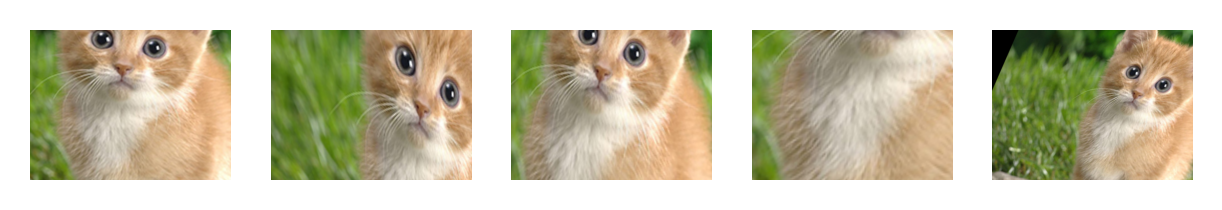
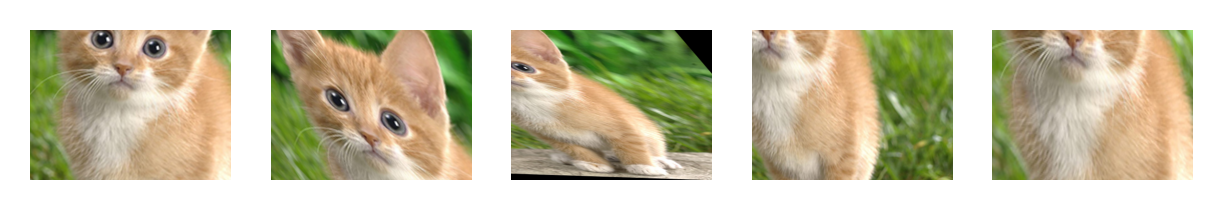
planar wip 2

diff --git a/alignment_2d.py b/alignment_2d.py
@@ -4,6 +4,8 @@ import argparse
 import matplotlib.pyplot as plt
 from skimage import io
 import pathlib
+from model import PosEncoding
+from tqdm import trange, tqdm
 
 
 def sl3_to_SL3(h):
@@ -17,15 +19,7 @@ def sl3_to_SL3(h):
     return H
 
 
-# pick random patches
-def generate_patches(image, num_patches, noise_scale, crop_scale):
-    H, W = image.shape[1:]
-    M = num_patches
-    image = image[None].expand(M, -1, -1, -1)
-
-    h = torch.randn(M, 8) * noise_scale
-    h[0] = 0.0  # identity for the first patch
-
+def gen_grid(h, H, W, crop_scale):
     mat = sl3_to_SL3(h)
 
     grid = F.affine_grid(
@@ -37,7 +31,19 @@ def generate_patches(image, num_patches, noise_scale, crop_scale):
     grid = torch.cat([grid, torch.ones(1, H, W, 1)], -1)  # [1, H, W, 3]
     grid = torch.einsum('mdt,mhwd->mhwt', mat, grid.expand(5, -1, -1, -1))
     grid = (grid / grid[..., -1:])[..., :-1]
+    return grid
 
+
+# pick random patches
+def generate_patches(image, num_patches, noise_scale, crop_scale):
+    H, W = image.shape[1:]
+    M = num_patches
+    image = image[None].expand(M, -1, -1, -1)
+
+    h = torch.randn(M, 8) * noise_scale
+    h[0] = 0.0  # identity for the first patch
+
+    grid = gen_grid(h, H, W, crop_scale)
     patches = F.grid_sample(image, grid, align_corners=False)
     return patches, h
 
@@ -75,6 +81,64 @@ def visualize_patches(image, patches, true_poses, num_patches, crop_scale, based
     plt.savefig(basedir / 'warps.png', bbox_inches='tight')
 
 
+class Model(torch.nn.Module):
+    def __init__(self, pos_enc):
+        super(Model, self).__init__()
+        self.pos_enc = pos_enc
+
+        self.features = torch.nn.Sequential(
+            torch.nn.Linear(pos_enc.encode_dim, 256),
+            torch.nn.Softplus(),
+            torch.nn.Linear(256, 256),
+            torch.nn.Softplus(),
+            torch.nn.Linear(256, 256),
+            torch.nn.Softplus(),
+            torch.nn.Linear(256, 3),
+        )
+
+    def forward(self, x, step):
+        # x: [batch_size, 2]
+        # output: color [batch_size, 3]
+        x = self.pos_enc.encode(x, step)
+        x = self.features(x)
+        x = torch.sigmoid(x)
+        return x
+
+
+def train(args, patches, true_poses):
+    # patches: (M, 3, H, W)
+    # true_poses: (M, 8)
+    poses = torch.nn.Parameter(torch.zeros(args.num_patches - 1, 8))
+    model = Model(PosEncoding(2, 8, 0, 2000))
+    H, W = patches.shape[2:]
+    M = len(patches)
+
+    opt = torch.optim.Adam(
+        [*model.parameters(), poses],
+        lr=0.001
+    )
+
+    for step in trange(5000):
+        opt.zero_grad()
+
+        poses_fixed = torch.cat([torch.zeros(1, 8), poses], 0)
+
+        grid = gen_grid(poses_fixed, H, W, args.crop_scale)  # (M, H, W, 2)
+        grid = grid.reshape(-1, 2)  # (MHW, 2)
+
+        prediction = model(grid, step)  # (MHW, 3)
+        prediction = prediction.reshape(M, H, W, 3)  # (M, H, W, 3)
+        ground_truth = patches.permute(0, 2, 3, 1)  # (M, H, W, 3)
+
+        loss = ((prediction - ground_truth)**2).sum()
+        tqdm.write(f"loss={loss:.4f}")
+
+        loss.backward()
+        opt.step()
+
+    return poses, model
+
+
 def main():
     parser = argparse.ArgumentParser()
     parser.add_argument('--image_path', type=str, default="../data/cat.jpg")
@@ -94,7 +158,7 @@ def main():
 
     visualize_patches(image, patches, true_poses, args.num_patches, args.crop_scale, basedir)
 
-    poses = torch.nn.Parameter(torch.zeros(args.num_patches, 8))
+    train(args, patches, true_poses)
 
 
 if __name__ == "__main__":

diff --git a/model.py b/model.py
@@ -17,6 +17,7 @@ class NeRFModel(nn.Module):
 
         self.sigmoid_color = nn.Sigmoid()
         self.softplus_density = nn.Softplus()
+
     def forward(self, location, direction):
         # TODO: implement positional encoding
 
